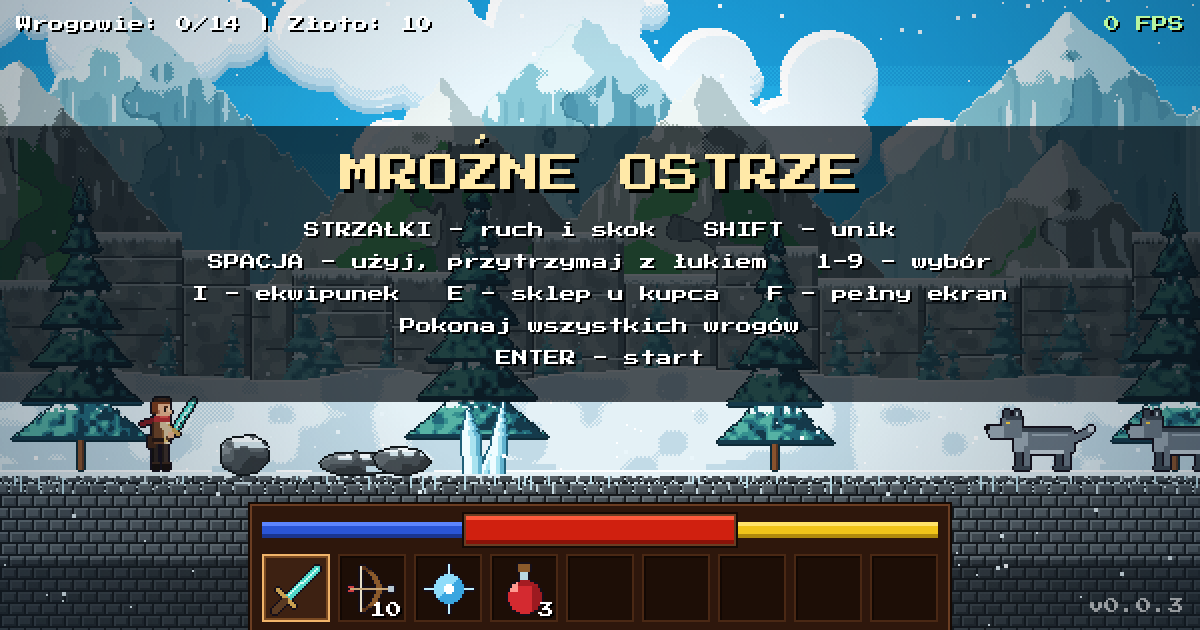
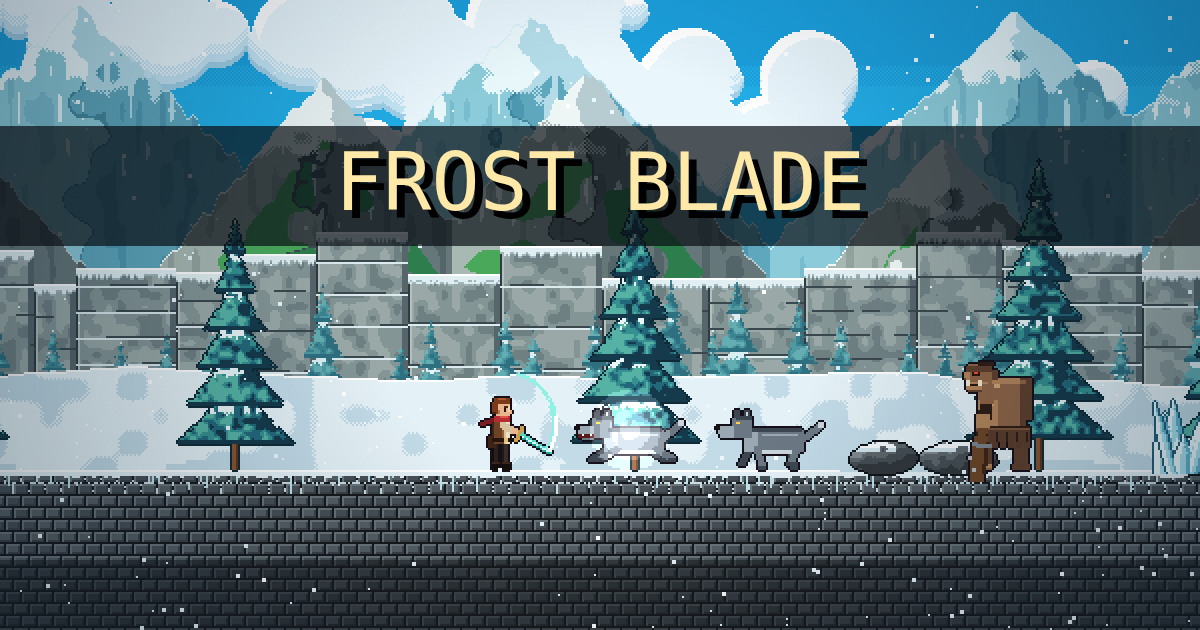
v0.0.6 - lore, leveling up

diff --git a/src/player.js b/src/player.js
@@ -4,6 +4,7 @@ import { sfx } from './sound.js'
 import { TYPES, hurtEnemy } from './enemies.js'
 import { stat } from './items.js'
 import { onIce } from './levels.js'
+import { t } from './lang.js'
 
 export const SLOTS = ['sword', 'bow', 'frost', 'potion']
 // Mana skills have their own keys, touch screens have buttons for them
@@ -23,12 +24,30 @@ const USE_KEYS = ['Space', 'KeyJ', 'Mouse0']
 export function createPlayer() {
     return {
         x: 80, y: GROUND, vx: 0, vy: 0, dir: 1, onGround: true, walk: 0,
-        hp: 100, mana: 100, stamina: 100, restT: 0,
+        hp: 100, maxHp: 100, mana: 100, maxMana: 100, stamina: 100, restT: 0,
+        xp: 0, level: 1, power: 0,
         slot: 0, cooldown: 0,
         bag: { gold: 10, arrows: 10, potion: 3 },
         gear: { head: null, body: null, back: null },
         attackT: -1, chill: false, hitSet: new Set(), rollT: -1, hurtT: 0, drawT: -1, shieldT: 0,
     }
+}
+
+// Kills grant XP. Filling the bar levels the hero up: more health, mana and striking power.
+const XP_PER_LEVEL = 50
+
+export function addXp(p, amount, game) {
+    p.xp += amount
+    if (p.xp < p.level * XP_PER_LEVEL) return
+    p.xp -= p.level * XP_PER_LEVEL
+    p.level++
+    p.maxHp += 20
+    p.maxMana += 10
+    p.power += 2
+    p.hp = p.maxHp
+    p.mana = p.maxMana
+    game.popup(p.x, p.y - 60, t('levelUp', { level: p.level }), '#ffe9a8')
+    sfx.coin()
 }
 
 export function canUse(p, item) {
@@ -39,7 +58,7 @@ export function canUse(p, item) {
 export function aimArrow(p) {
     const charge = Math.min(1, p.drawT / BOW_CHARGE)
     const speed = 180 + 340 * charge
-    return { x: p.x + p.dir * 12, y: p.y - 23, vx: p.dir * speed, vy: -speed * 0.3, damage: Math.round(8 + 16 * charge) }
+    return { x: p.x + p.dir * 12, y: p.y - 23, vx: p.dir * speed, vy: -speed * 0.3, damage: Math.round(8 + 16 * charge) + p.power }
 }
 
 export function flyArrow(a, dt) {
@@ -97,7 +116,7 @@ function useItem(p, item, game) {
     } else if (item === 'frost') {
         p.mana -= 25
         p.cooldown = 0.35
-        game.bolts.push({ x: p.x + p.dir * 14, y: p.y - 22, vx: p.dir * 340, life: 1.2 })
+        game.bolts.push({ x: p.x + p.dir * 14, y: p.y - 22, vx: p.dir * 340, life: 1.2, damage: 18 + p.power })
         sfx.cast()
     } else if (item === 'shield') {
         p.mana -= 40
@@ -107,7 +126,7 @@ function useItem(p, item, game) {
         sfx.shield()
     } else if (item === 'potion') {
         p.bag.potion--
-        p.hp = Math.min(100, p.hp + 40)
+        p.hp = Math.min(p.maxHp, p.hp + 40)
         p.cooldown = 0.5
         game.burst(p.x, p.y - 18, '#ff6b6b', 16, 60)
         game.flash(p.x, p.y - 18, '#ff6b6b', 56)
@@ -121,7 +140,7 @@ export function updatePlayer(p, dt, game) {
     p.restT -= dt
     p.shieldT -= dt
     if (p.restT <= 0) p.stamina = Math.min(100, p.stamina + (30 + stat(p, 'staminaRegen')) * dt)
-    p.mana = Math.min(100, p.mana + (6 + stat(p, 'manaRegen')) * dt)
+    p.mana = Math.min(p.maxMana, p.mana + (6 + stat(p, 'manaRegen')) * dt)
 
     for (let i = 0; i < 9; i++) if (input.hit('Digit' + (i + 1))) p.slot = i
     p.slot = (((p.slot + input.takeWheel()) % 9) + 9) % 9
@@ -165,7 +184,7 @@ export function updatePlayer(p, dt, game) {
             for (const e of game.enemies) {
                 if (e.hp <= 0 || p.hitSet.has(e) || Math.abs(e.x - reach) > 30 || p.y < e.y - TYPES[e.type].height) continue
                 p.hitSet.add(e)
-                hurtEnemy(e, 14, p.dir, game, 0, p.chill ? 1.6 : 0)
+                hurtEnemy(e, 14 + p.power, p.dir, game, 0, p.chill ? 1.6 : 0)
             }
         }
         if (p.attackT > ATTACK_TIME) p.attackT = -1

diff --git a/src/hud.js b/src/hud.js
@@ -20,14 +20,17 @@ const questName = quest => quest.item
     : t('questKill', { enemy: t(`enemy.${quest.kill}`), count: quest.count })
 
 function overlayLines(game) {
-    if (game.state === 'travel') return [t(`stage.${LEVELS[game.level + 1].theme}`), t('loading')]
+    if (game.state === 'travel') {
+        const stage = LEVELS[game.level + 1]
+        return [t(`stage.${stage.theme}`), t(`story.${stage.theme}`), t('loading')]
+    }
     const start = touch ? t('tap') : 'ENTER'
     const retry = touch ? t('tap') : 'R'
     const controls = touch ? [t('hintTouch')] : [t('keysMove'), t('keysUse'), t('keysSkills'), t('keysMenu')]
     // An empty data-key keeps a tap on a language from also starting the game
     const languages = LANGUAGES.map(code => `<span data-language="${code}" data-key="" ${code === language() ? 'data-active' : ''}>${languageName(code)}</span>`).join(' ')
     return {
-        title: [t('title'), ...controls, t('goal'), t('start', { key: start }), `${t('language')}: ${languages}`],
+        title: [t('title'), t('storyIntro'), ...controls, t('goal'), t('start', { key: start }), `${t('language')}: ${languages}`],
         dead: [t('dead'), t('retry', { key: retry })],
         win: [t('win'), t('winText'), t('again', { key: retry })],
     }[game.state]
@@ -121,8 +124,8 @@ export class Hud {
 
     update(game, fps) {
         const p = game.player
-        $('mana').style.width = `${p.mana}%`
-        $('hp').style.width = `${Math.max(0, p.hp)}%`
+        $('mana').style.width = `${100 * p.mana / p.maxMana}%`
+        $('hp').style.width = `${Math.max(0, 100 * p.hp / p.maxHp)}%`
         $('stamina').style.width = `${p.stamina}%`
         this.slots.forEach((slot, i) => {
             const item = SLOTS[i]
@@ -135,7 +138,7 @@ export class Hud {
         const foes = game.enemies.filter(e => !TYPES[e.type].prop)
         const exit = game.cleared() && game.level < LEVELS.length - 1
         const goal = exit ? t('cleared') : t('foes', { killed: foes.filter(e => e.hp <= 0).length, total: foes.length })
-        $('counter').textContent = [t(`stage.${game.stage.theme}`), goal, t('gold', { gold: p.bag.gold })].join(' | ')
+        $('counter').textContent = [t(`stage.${game.stage.theme}`), goal, t('level', { level: p.level }), t('gold', { gold: p.bag.gold })].join(' | ')
         $('quests').innerHTML = game.quests.filter(quest => quest.state === 'taken').map(quest => `<p>${questName(quest)} ${progress(game, quest)}/${quest.count}</p>`).join('')
         $('fps').textContent = `${fps} FPS`
         const boss = game.state === 'play' && game.enemies.find(e => TYPES[e.type].boss && e.hp > 0 && Math.abs(e.x - p.x) < TYPES[e.type].engage)

diff --git a/src/lang.js b/src/lang.js
@@ -12,6 +12,12 @@ const TEXTS = {
         keysMenu: 'I - ekwipunek &nbsp; E - kupiec, tablica zadań &nbsp; F - pełny ekran',
         hintTouch: 'Przytrzymaj UŻYJ, by strzelić z łuku',
         goal: 'Przejdź Zimowy Las, Lodową Jaskinię i Ruiny Zamku',
+        storyIntro: 'Zimowa Klątwa spowiła krainę wiecznym mrozem. Odnajdź jej źródło i połóż jej kres.',
+        'story.forest': 'Wilki i ogry strzegą zamarzniętego lasu na granicy krainy.',
+        'story.cave': 'Głęboko w Lodowej Jaskini szamani karmią klątwę swoją magią.',
+        'story.ruins': 'W Ruinach Zamku czeka Wódz Ogrów, władca tej zmarzniętej ziemi.',
+        level: 'Poziom {level}',
+        levelUp: 'AWANS! Poziom {level}',
         tap: 'DOTKNIJ',
         start: '{key} - start',
         dead: 'KONIEC GRY',
@@ -79,6 +85,12 @@ const TEXTS = {
         keysMenu: 'I - inventory &nbsp; E - merchant, quest board &nbsp; F - fullscreen',
         hintTouch: 'Hold USE to shoot the bow',
         goal: 'Cross the Winter Forest, the Ice Cave and the Castle Ruins',
+        storyIntro: 'A Winter Curse has wrapped the land in endless frost. Find its source and end it.',
+        'story.forest': 'Wolves and ogres guard the frozen forest at the border of the land.',
+        'story.cave': 'Deep in the Ice Cave, shamans feed the curse with their magic.',
+        'story.ruins': 'In the Castle Ruins waits the Ogre Chief, lord of this frozen land.',
+        level: 'Level {level}',
+        levelUp: 'LEVEL UP! Level {level}',
         tap: 'TAP',
         start: '{key} - start',
         dead: 'GAME OVER',

diff --git a/src/game.js b/src/game.js
@@ -24,7 +24,11 @@ export class Game {
     startLevel(index, hero = createPlayer()) {
         this.level = index
         this.stage = LEVELS[index]
-        this.player = { ...createPlayer(), bag: structuredClone(hero.bag), gear: { ...hero.gear } }
+        this.player = {
+            ...createPlayer(), bag: structuredClone(hero.bag), gear: { ...hero.gear },
+            xp: hero.xp, level: hero.level, power: hero.power,
+            maxHp: hero.maxHp, maxMana: hero.maxMana, hp: hero.maxHp, mana: hero.maxMana,
+        }
         this.saved = structuredClone(this.player)
         this.quests = this.stage.quests.map(quest => ({ ...quest, state: 'new' }))
         this.kills = {}
@@ -141,7 +145,7 @@ export class Game {
             this.particles.push({ x: b.x, y: b.y + (Math.random() - 0.5) * 4, vx: -b.vx * 0.1, vy: 0, life: 0.25, color: '#9fe6ff', size: 1, gravity: 0 })
             const target = this.enemies.find(e => e.hp > 0 && Math.abs(e.x - b.x) < 16 && b.y > e.y - TYPES[e.type].height - 4)
             if (target) {
-                hurtEnemy(target, 18, Math.sign(b.vx), this, 2.5)
+                hurtEnemy(target, b.damage, Math.sign(b.vx), this, 2.5)
                 this.burst(b.x, b.y, '#bff0ff', 14)
                 this.flash(b.x, b.y, '#8fdcff', 48)
                 b.life = 0

diff --git a/src/sound.js b/src/sound.js
@@ -3,6 +3,7 @@ let ac
 export function unlockAudio() {
     ac ??= new AudioContext()
     if (ac.state === 'suspended') ac.resume()
+    startMusic()
 }
 
 function envelope(volume, duration) {
@@ -36,6 +37,24 @@ function noise(duration, volume, frequency) {
     filter.frequency.value = frequency
     src.connect(filter).connect(envelope(volume, duration))
     src.start()
+}
+
+// Generative ambient pad: soft random chords from an icy scale, fading in and out forever
+const MUSIC_SCALE = [174.61, 196.00, 220.00, 261.63, 293.66, 329.63]
+let musicOn = false
+
+function ambientNote() {
+    if (!musicOn) return
+    const freq = MUSIC_SCALE[Math.floor(Math.random() * MUSIC_SCALE.length)]
+    tone(freq, freq, 4, 'sine', 0.14)
+    tone(freq * 1.5, freq * 1.5, 4, 'sine', 0.08)
+    setTimeout(ambientNote, 1200 + Math.random() * 900)
+}
+
+function startMusic() {
+    if (musicOn) return
+    musicOn = true
+    ambientNote()
 }
 
 export const sfx = {

diff --git a/src/enemies.js b/src/enemies.js
@@ -1,6 +1,6 @@
 import { GROUND, LEVEL_W } from './const.js'
 import { sfx } from './sound.js'
-import { hurtPlayer } from './player.js'
+import { hurtPlayer, addXp } from './player.js'
 import { onIce } from './levels.js'
 
 const GRAVITY = 960
@@ -130,6 +130,7 @@ export function hurtEnemy(e, damage, dir, game, slow = 0, freeze = 0) {
     game.shake = 6
     game.burst(e.x, e.y - type.height / 2, type.blood, 30, 160)
     sfx.smash()
+    if (!type.prop) addXp(game.player, Math.round(type.hp / 2), game)
     for (const [item, chance, count] of LOOT[e.type]) if (Math.random() < chance) game.drop(e.x, e.y - type.height / 2, item, count)
 }
 

diff --git a/src/main.js b/src/main.js
@@ -1,4 +1,4 @@
-import { H, view } from './const.js'
+import { view } from './const.js'
 import { Game } from './game.js'
 import { Renderer } from './render.js'
 import { Hud } from './hud.js'
